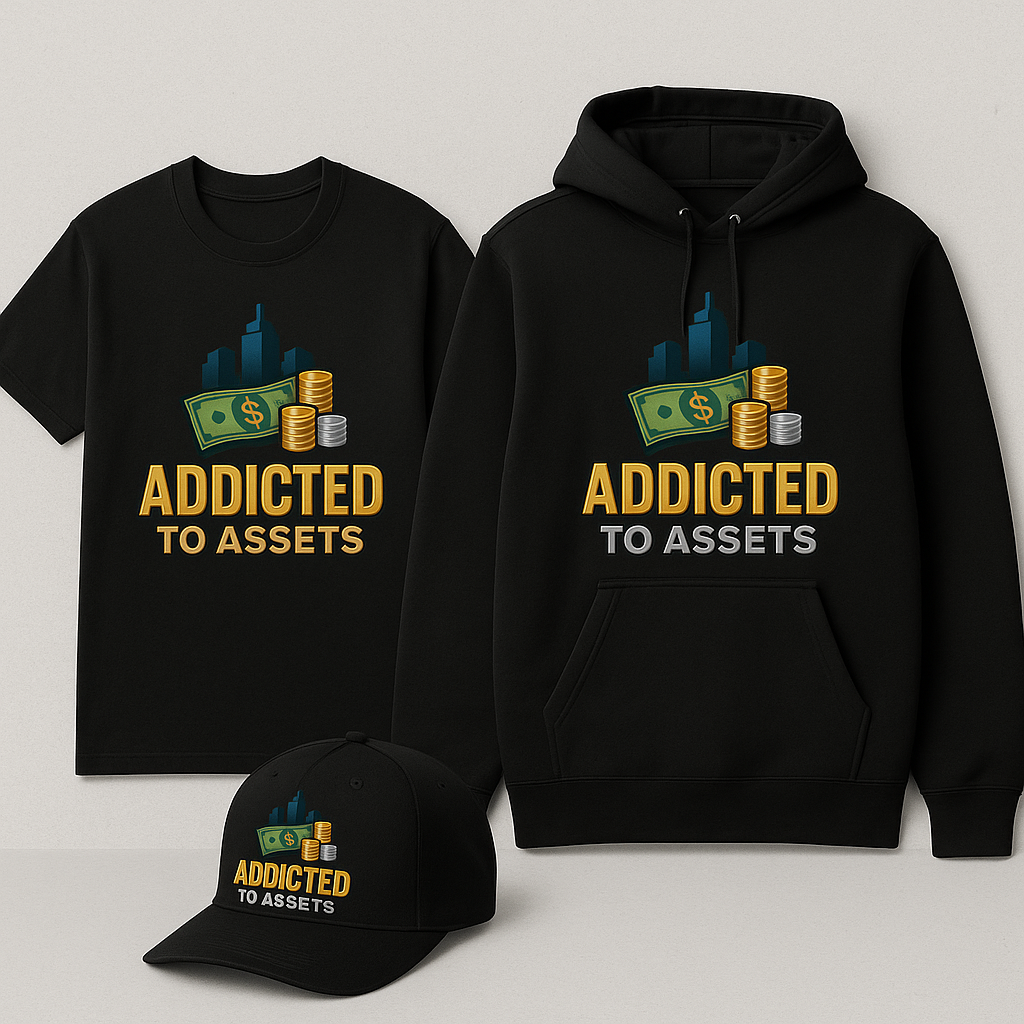
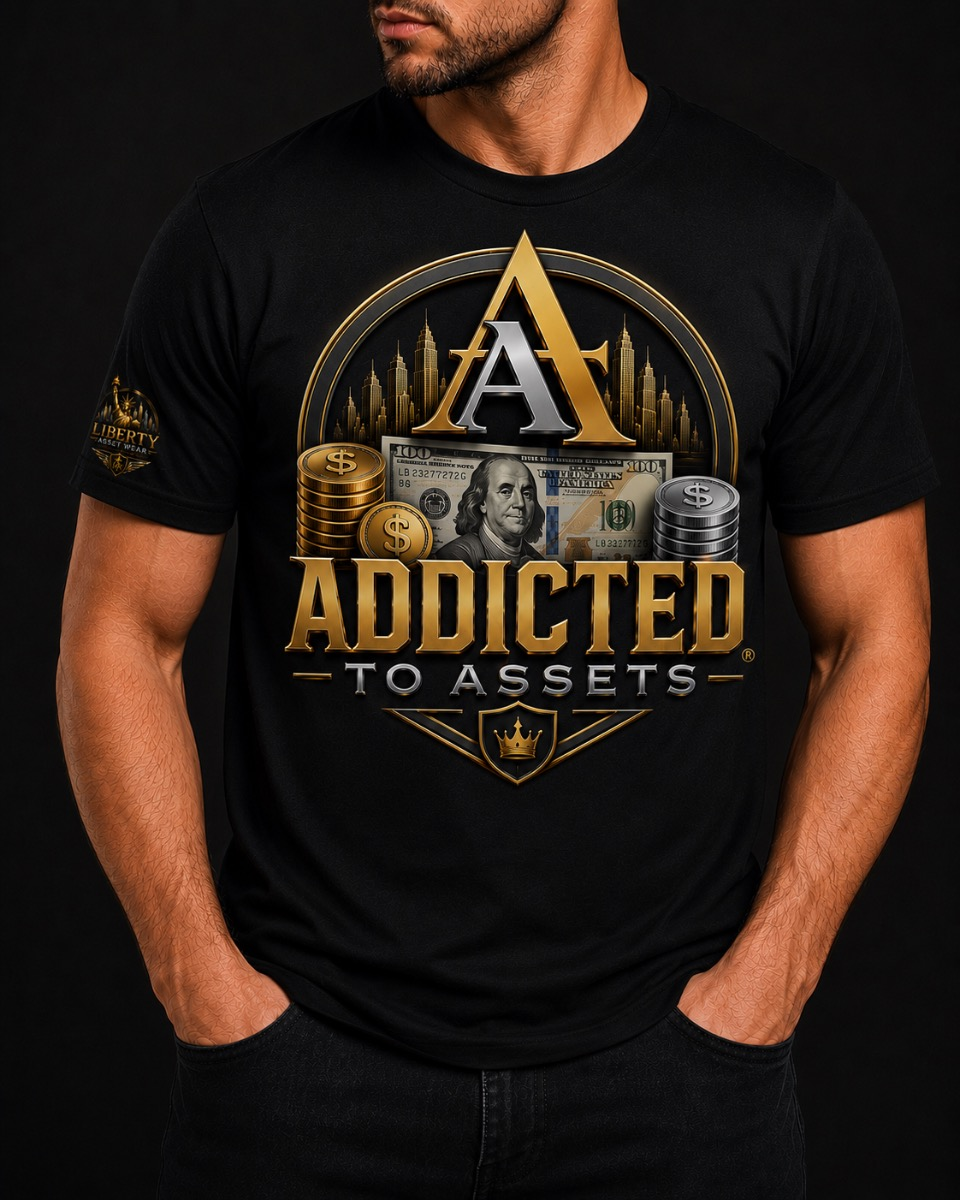
feat: update price for 'Addicted to Assets' merchandise item and replace image

diff --git a/app/merchandise/page.tsx b/app/merchandise/page.tsx
@@ -101,7 +101,7 @@ export default function MerchandisePage() {
       category: "Books",
       image: "/merch/addicted-to-assets.png",
       description: "A comprehensive guide to building and managing assets for long-term wealth and financial freedom.",
-      price: "",
+      price: "$29.99",
       url: "addicted-to-assets",
     },
     {